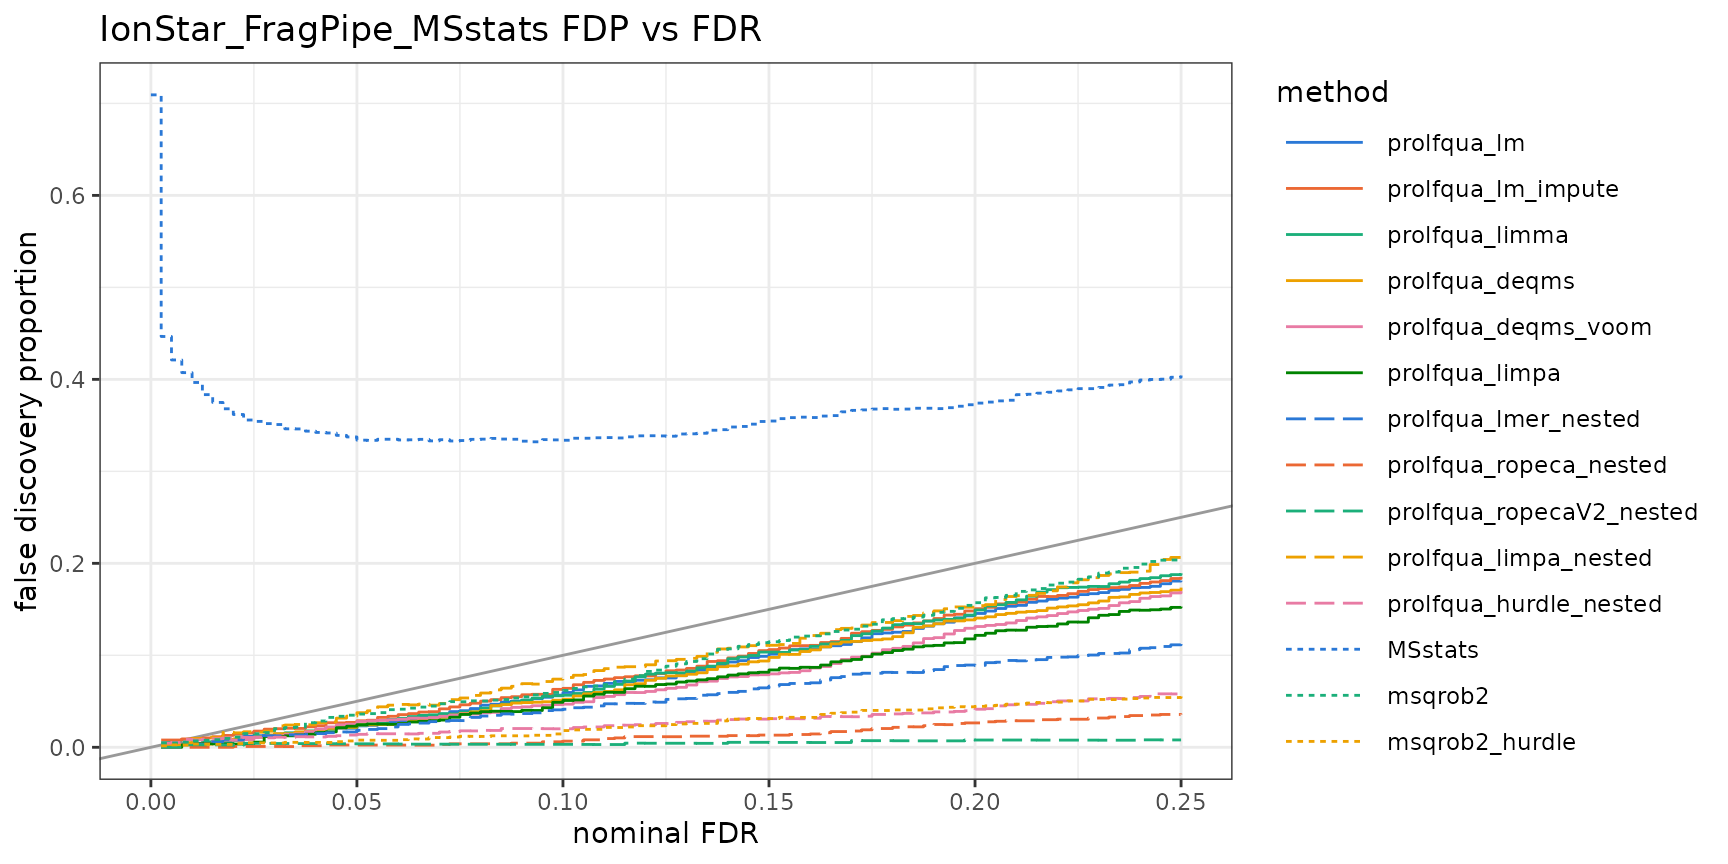
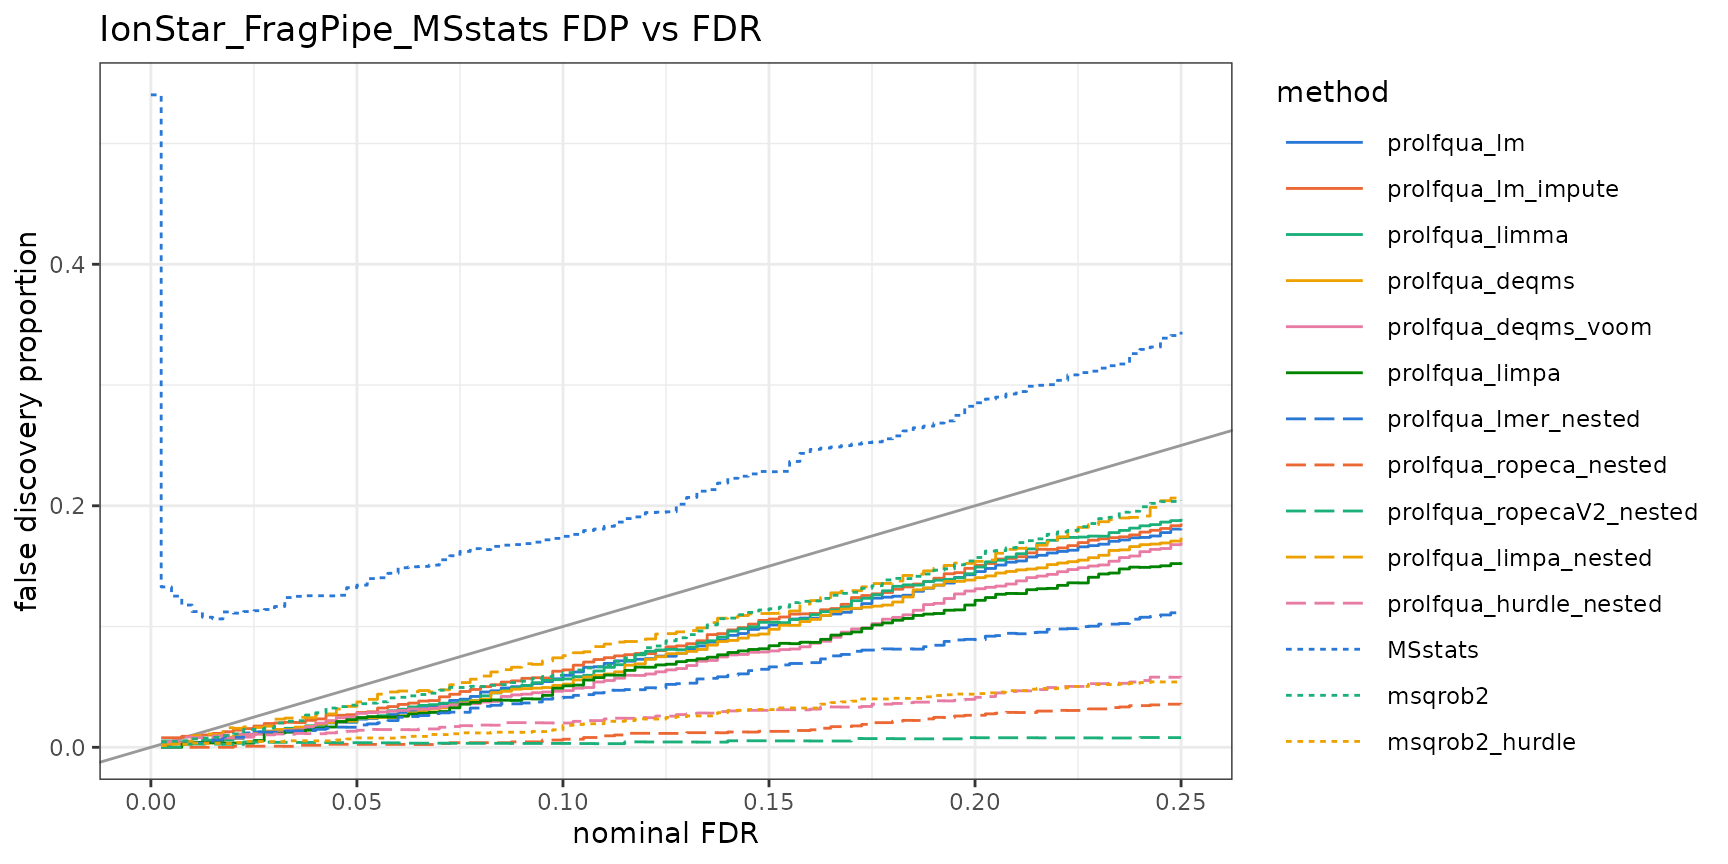
Deploying to gh-pages from @ prolfqua/prolfquabenchmark@07336c44f2fb4f71b9db3120ea9b0099187ff632 🚀

diff --git a/news/index.html b/news/index.html
@@ -69,6 +69,7 @@
 <li><p>prolfqua models are named <code>prolfqua_&lt;facade&gt;</code>: <code>prolfqua_lm</code>, <code>prolfqua_lm_impute</code>, <code>prolfqua_limma</code>, <code>prolfqua_deqms</code>, <code>prolfqua_deqms_voom</code> and <code>prolfqua_limpa</code> on proteins, <code>prolfqua_lmer_nested</code>, <code>prolfqua_ropeca_nested</code>, <code>prolfqua_ropecaV2_nested</code>, <code>prolfqua_limpa_nested</code> and <code>prolfqua_hurdle_nested</code> on peptides; DEqMS and limpa are new. The former <code>prolfqua_lm</code> (<code>lm_missing</code>, now in prolfquatakeoutmissing) is dropped from the benchmark and the score history; prolfquabenchmark no longer uses prolfquatakeoutmissing.</p></li>
 <li><p>Each dataset and method has one name: the MaxQuant results formerly under <code>IonStar_MQ</code>, <code>IonStar_MQ_LFQ</code> and <code>IonStar_MQ_medpolish</code> are <code>IonStar_MaxQuant</code> (peptides.txt), <code>IonStar_MaxQuant_protein</code> (proteinGroups.txt LFQ intensities; proDA runs here only, proDA on the proteins prolfqua aggregated is dropped); MSstats on MaxQuant’s evidence.txt, the only method on that file, is dropped, and the duplicate <code>limma</code> of the ROPECA benchmark is dropped (same model as <code>prolfqua_limma</code>).</p></li>
 <li><p>CPTAC is benchmarked again; its MaxQuant peptides come from Bioconductor <code>MsDataHub</code> (<code>cptac_a_b_peptides.txt()</code>, the file <code><a href="https://rdrr.io/pkg/msdata/man/proteomics.html" class="external-link">msdata::quant()</a></code> provided before its deprecation).</p></li>
+<li><p>MSstats on FragPipe’s MSstats.csv gets proteins with at least 2 peptides, like the other methods (it tested 1152 single-peptide proteins more), and its infinite fold changes (one condition without observations, no test) are no longer ranked.</p></li>
 <li><p>proDA results are reproducible: its fit draws random numbers, so it is now seeded; two unseeded fits of the same data differed by up to 1.3 in log fold change. msqrob2 results carry each protein’s average intensity instead of one value per contrast, proDA results their average abundance, and CPTAC uses <code>_YEAST</code> as the negative pattern for every tool.</p></li>
 <li><p>Uses no prolfqua function that prolfqua 1.9.5 deprecates: the msqrob2 and hurdle vignettes and <code>tolong()</code> convert result tables with <code>tibble::as_tibble(rownames = )</code> instead of <code><a href="https://fgcz.github.io/prolfqua/reference/matrix_to_tibble.html" class="external-link">prolfqua::matrix_to_tibble()</a></code>, and the paper supplement applies ROPECA with <code>ContrastsROPECA</code> and shows contrast weights with <code>Contrasts$get_linfct()</code>.</p></li>
 <li><p>The vignettes and the squeezeVar benchmark script no longer set an isotope label, which label-free prolfqua 1.9.5 removed.</p></li>

diff --git a/articles/Benchmark_results.html b/articles/Benchmark_results.html
@@ -280,7 +280,7 @@ z-score</td>
 <td align="left">msstats_features</td>
 <td align="left">MSstats dataProcess (feature summarization) and
 groupComparison</td>
-<td align="right">75.0</td>
+<td align="right">61.2</td>
 </tr>
 <tr class="odd">
 <td align="left">IonStar_FragPipe_MSstats</td>
@@ -1622,6 +1622,32 @@ protein
 </tr>
 <tr>
 <td style="text-align:left;">
+MSstats
+</td>
+<td style="text-align:left;">
+protein
+</td>
+<td style="text-align:right;">
+95.6
+</td>
+<td style="text-align:right;">
+96.6
+</td>
+<td style="text-align:right;">
+96.6
+</td>
+<td style="text-align:right;">
+74.5
+</td>
+<td style="text-align:right;">
+81.5
+</td>
+<td style="text-align:right;">
+81.5
+</td>
+</tr>
+<tr>
+<td style="text-align:left;">
 prolfqua_lmer_nested
 </td>
 <td style="text-align:left;">
@@ -1670,32 +1696,6 @@ protein
 </td>
 <td style="text-align:right;">
 78.6
-</td>
-</tr>
-<tr>
-<td style="text-align:left;">
-MSstats
-</td>
-<td style="text-align:left;">
-protein
-</td>
-<td style="text-align:right;">
-91.9
-</td>
-<td style="text-align:right;">
-95.0
-</td>
-<td style="text-align:right;">
-94.9
-</td>
-<td style="text-align:right;">
-52.5
-</td>
-<td style="text-align:right;">
-76.1
-</td>
-<td style="text-align:right;">
-75.3
 </td>
 </tr>
 <tr>

diff --git a/articles/Score_history.html b/articles/Score_history.html
@@ -1267,22 +1267,22 @@ protein
 1.9.5
 </td>
 <td style="text-align:right;">
-91.9
+95.6
 </td>
 <td style="text-align:right;">
-95.0
+96.6
 </td>
 <td style="text-align:right;">
-94.9
+96.6
 </td>
 <td style="text-align:right;">
-52.5
+74.5
 </td>
 <td style="text-align:right;">
-76.1
+81.5
 </td>
 <td style="text-align:right;">
-75.3
+81.5
 </td>
 </tr>
 <tr>
